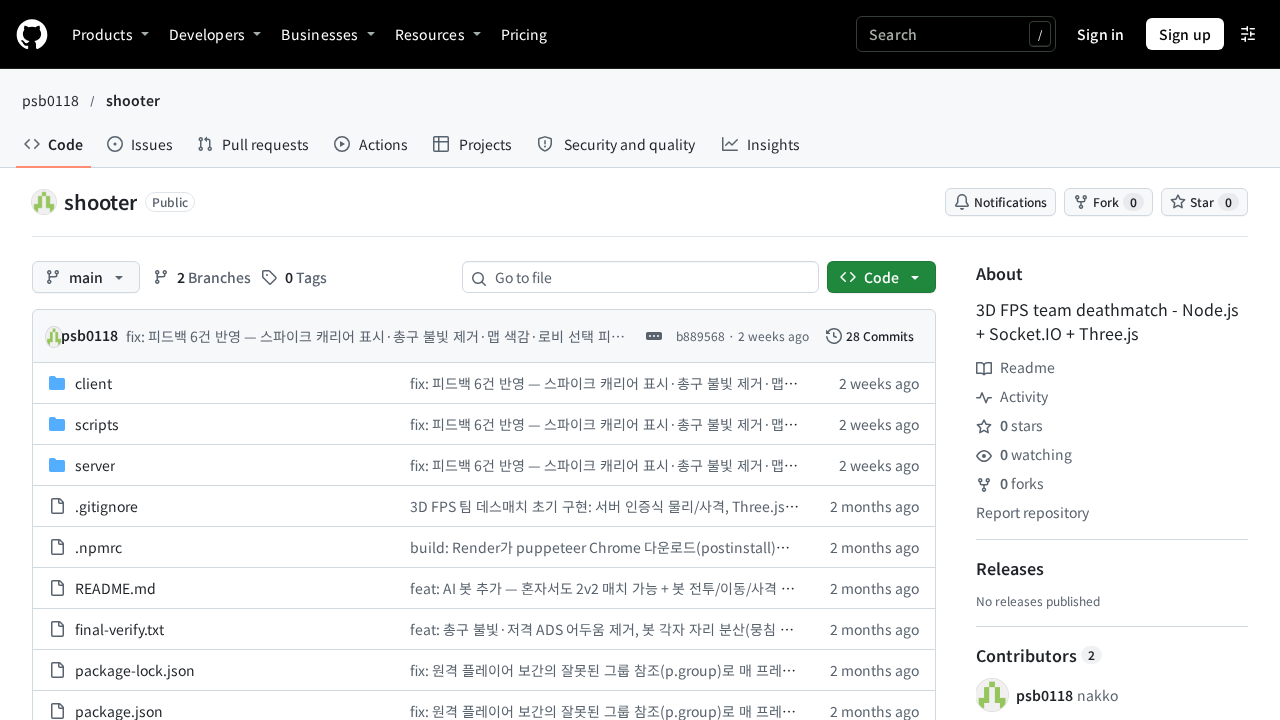
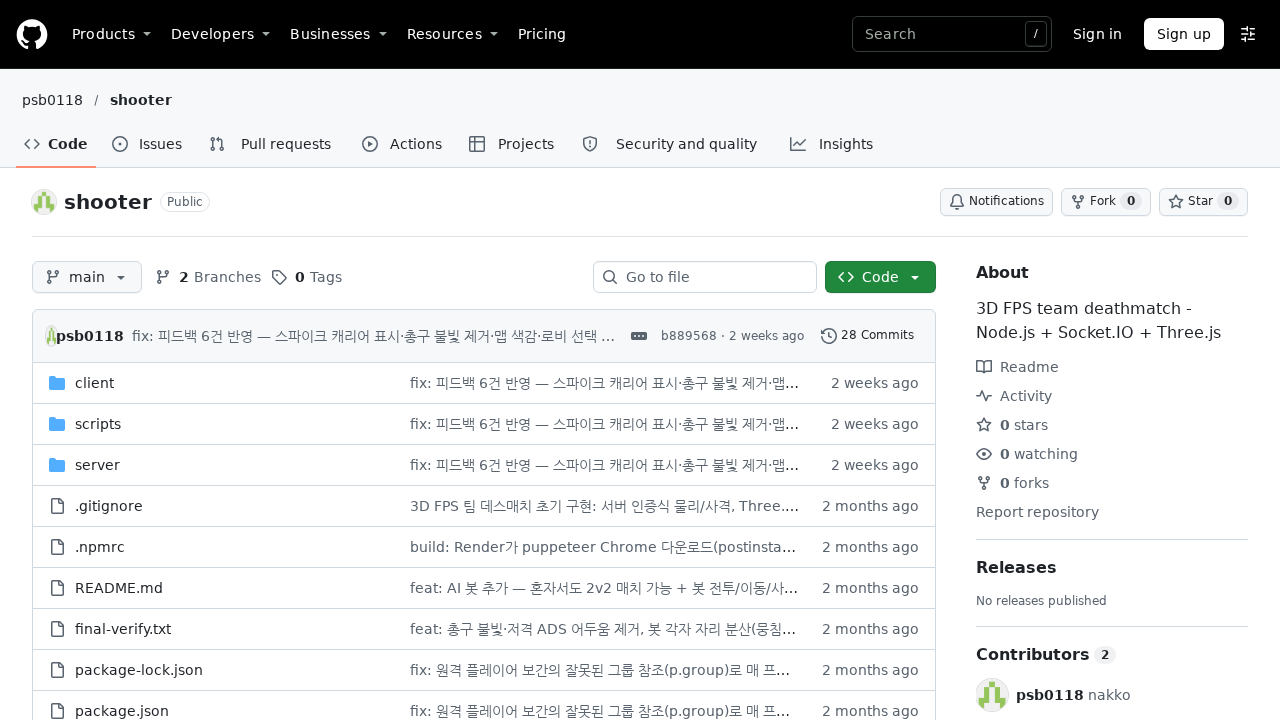
chore: 썸네일 3장 최신 화면으로 갱신
캡처 전에 화면을 덮는 안내 모달을 닫도록 capture-thumbs.js 를 보완해, Wordgame 썸네일이 규칙 안내창이 아니라 실제 게임 보드를 담도록 했다.

🤖 Generated with Codebuff

diff --git a/scripts/capture-thumbs.js b/scripts/capture-thumbs.js
@@ -5,6 +5,7 @@
    ---------------------------------------------------------
    sites.js 에서 image 가 지정된 사이트를 브라우저로 열어
    1280x720 PNG 로 저장합니다.
+   화면을 덮는 첫 방문 안내 모달(튜토리얼 등)은 닫은 뒤 캡처합니다.
 
    실행:
      npm install                      # puppeteer 포함 devDependency
@@ -31,6 +32,86 @@ function loadSites() {
   return (sandbox.window.HUB && sandbox.window.HUB.sites) || [];
 }
 
+/* ---------- 오버레이(첫 방문 모달) 닫기 ---------- */
+/* 화면을 덮는 고정 레이어에서 닫기/건너뛰기 버튼만 눌러 썸네일이 모달로 가려지지 않게 한다. */
+const DISMISS_TEXT = /^(✕|×|x|닫기|건너뛰기|skip|close|got\s*it|확인|시작하기)$/i;
+const OVERLAY_SELECTOR =
+  'dialog,[role="dialog"],[aria-modal="true"],[class*="modal" i],[class*="overlay" i],[class*="popup" i]';
+
+async function dismissOverlays(page) {
+  for (let round = 0; round < 3; round += 1) {
+    const found = await page.evaluate(
+      ({ selector, pattern }) => {
+        const re = new RegExp(pattern, "i");
+        const visible = (el) => {
+          const r = el.getBoundingClientRect();
+          const s = getComputedStyle(el);
+          return (
+            r.width > 60 &&
+            r.height > 40 &&
+            s.display !== "none" &&
+            s.visibility !== "hidden" &&
+            Number(s.opacity) > 0.05
+          );
+        };
+        const overlays = [...document.querySelectorAll(selector)].filter((el) => {
+          const s = getComputedStyle(el);
+          return (
+            visible(el) &&
+            (s.position === "fixed" || s.position === "absolute") &&
+            Number(s.zIndex) >= 100
+          );
+        });
+        if (!overlays.length) return { overlays: 0, acted: false };
+
+        for (const root of overlays) {
+          const controls = [...root.querySelectorAll('button,[role="button"],a')].filter(visible);
+          const pick =
+            controls.find((el) => /close/i.test(String(el.className))) ||
+            controls.find((el) => /닫기|close/i.test(el.getAttribute("aria-label") || "")) ||
+            controls.find((el) => re.test((el.innerText || el.textContent || "").trim()));
+          if (!pick) continue;
+
+          const label = (pick.innerText || pick.textContent || "").trim();
+          const target = root.id ? `#${root.id}` : `.${String(root.className).split(" ")[0]}`;
+          pick.click();
+          return { overlays: overlays.length, acted: true, target, label };
+        }
+        return { overlays: overlays.length, acted: false };
+      },
+      { selector: OVERLAY_SELECTOR, pattern: DISMISS_TEXT.source }
+    );
+
+    if (found.overlays === 0) return;
+    if (found.acted) {
+      console.log(`[THUMB]   모달 닫기: ${found.target} ← "${found.label}"`);
+      await new Promise((r) => setTimeout(r, 700));
+      continue;
+    }
+
+    await page.keyboard.press("Escape");
+    await new Promise((r) => setTimeout(r, 500));
+  }
+
+  const left = await page.evaluate((selector) => {
+    const visible = (el) => {
+      const r = el.getBoundingClientRect();
+      const s = getComputedStyle(el);
+      return (
+        r.width > 60 &&
+        r.height > 40 &&
+        s.display !== "none" &&
+        s.visibility !== "hidden" &&
+        (s.position === "fixed" || s.position === "absolute") &&
+        Number(s.zIndex) >= 100
+      );
+    };
+    return [...document.querySelectorAll(selector)].filter(visible).length;
+  }, OVERLAY_SELECTOR);
+
+  if (left > 0) console.log(`[THUMB]   경고: 닫지 못한 오버레이 ${left}개 (그대로 캡처)`);
+}
+
 async function main() {
   const targets = loadSites().filter((s) => s && s.url && s.image);
   if (!targets.length) {
@@ -53,6 +134,9 @@ async function main() {
         await page.setViewport(VIEWPORT);
         await page.goto(url, { waitUntil: "networkidle2", timeout: 45000 });
         await new Promise((r) => setTimeout(r, SETTLE_MS));
+
+        await dismissOverlays(page);
+        await new Promise((r) => setTimeout(r, 400));
 
         fs.mkdirSync(path.dirname(outPath), { recursive: true });
         await page.screenshot({ path: outPath, type: "png" });
